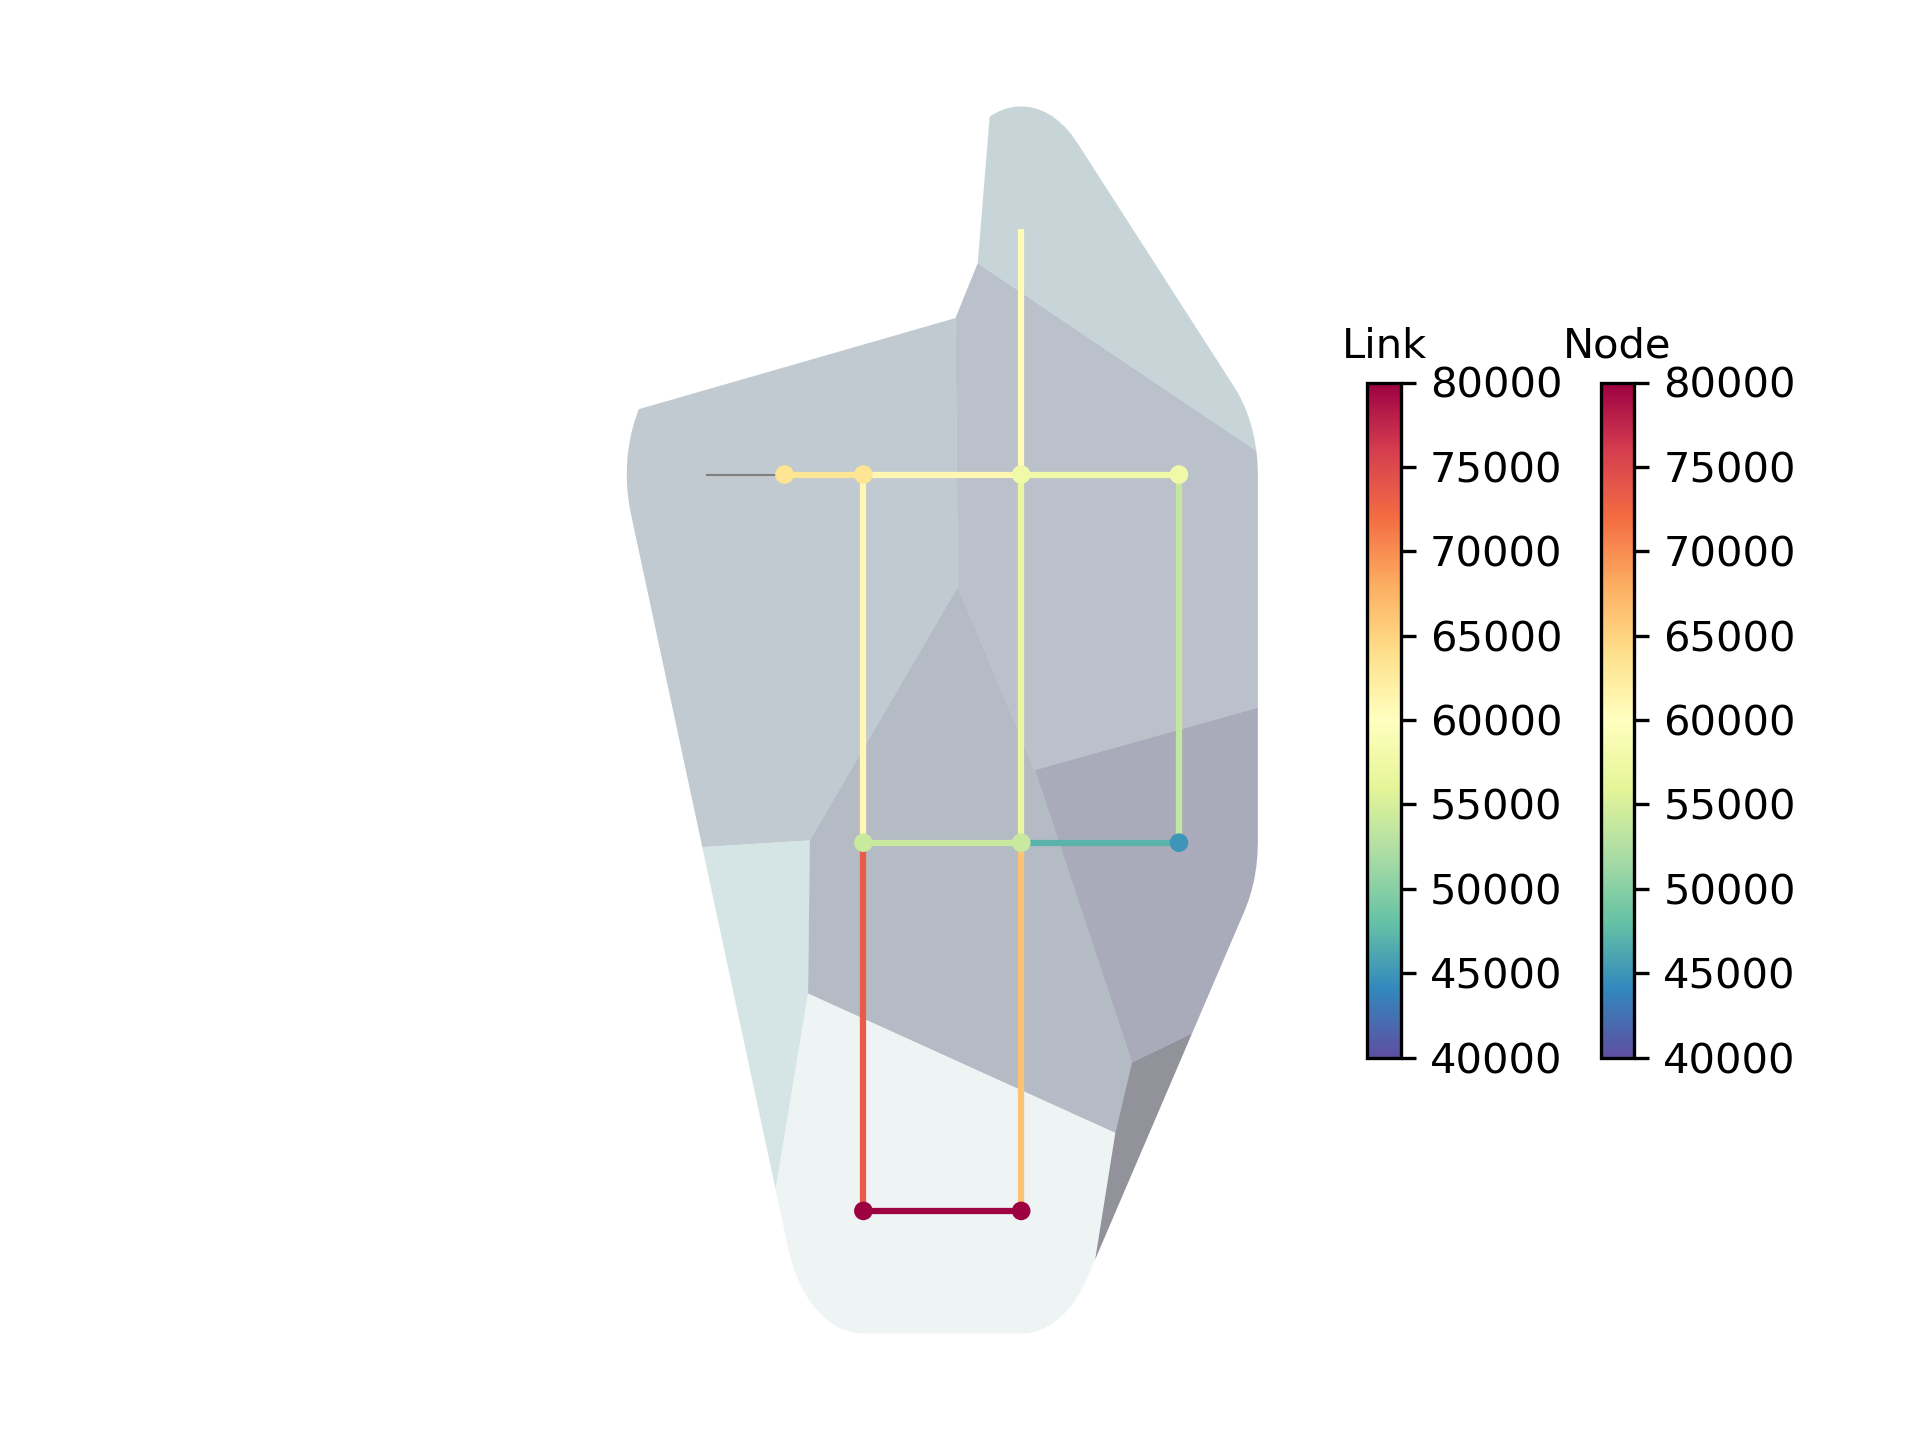
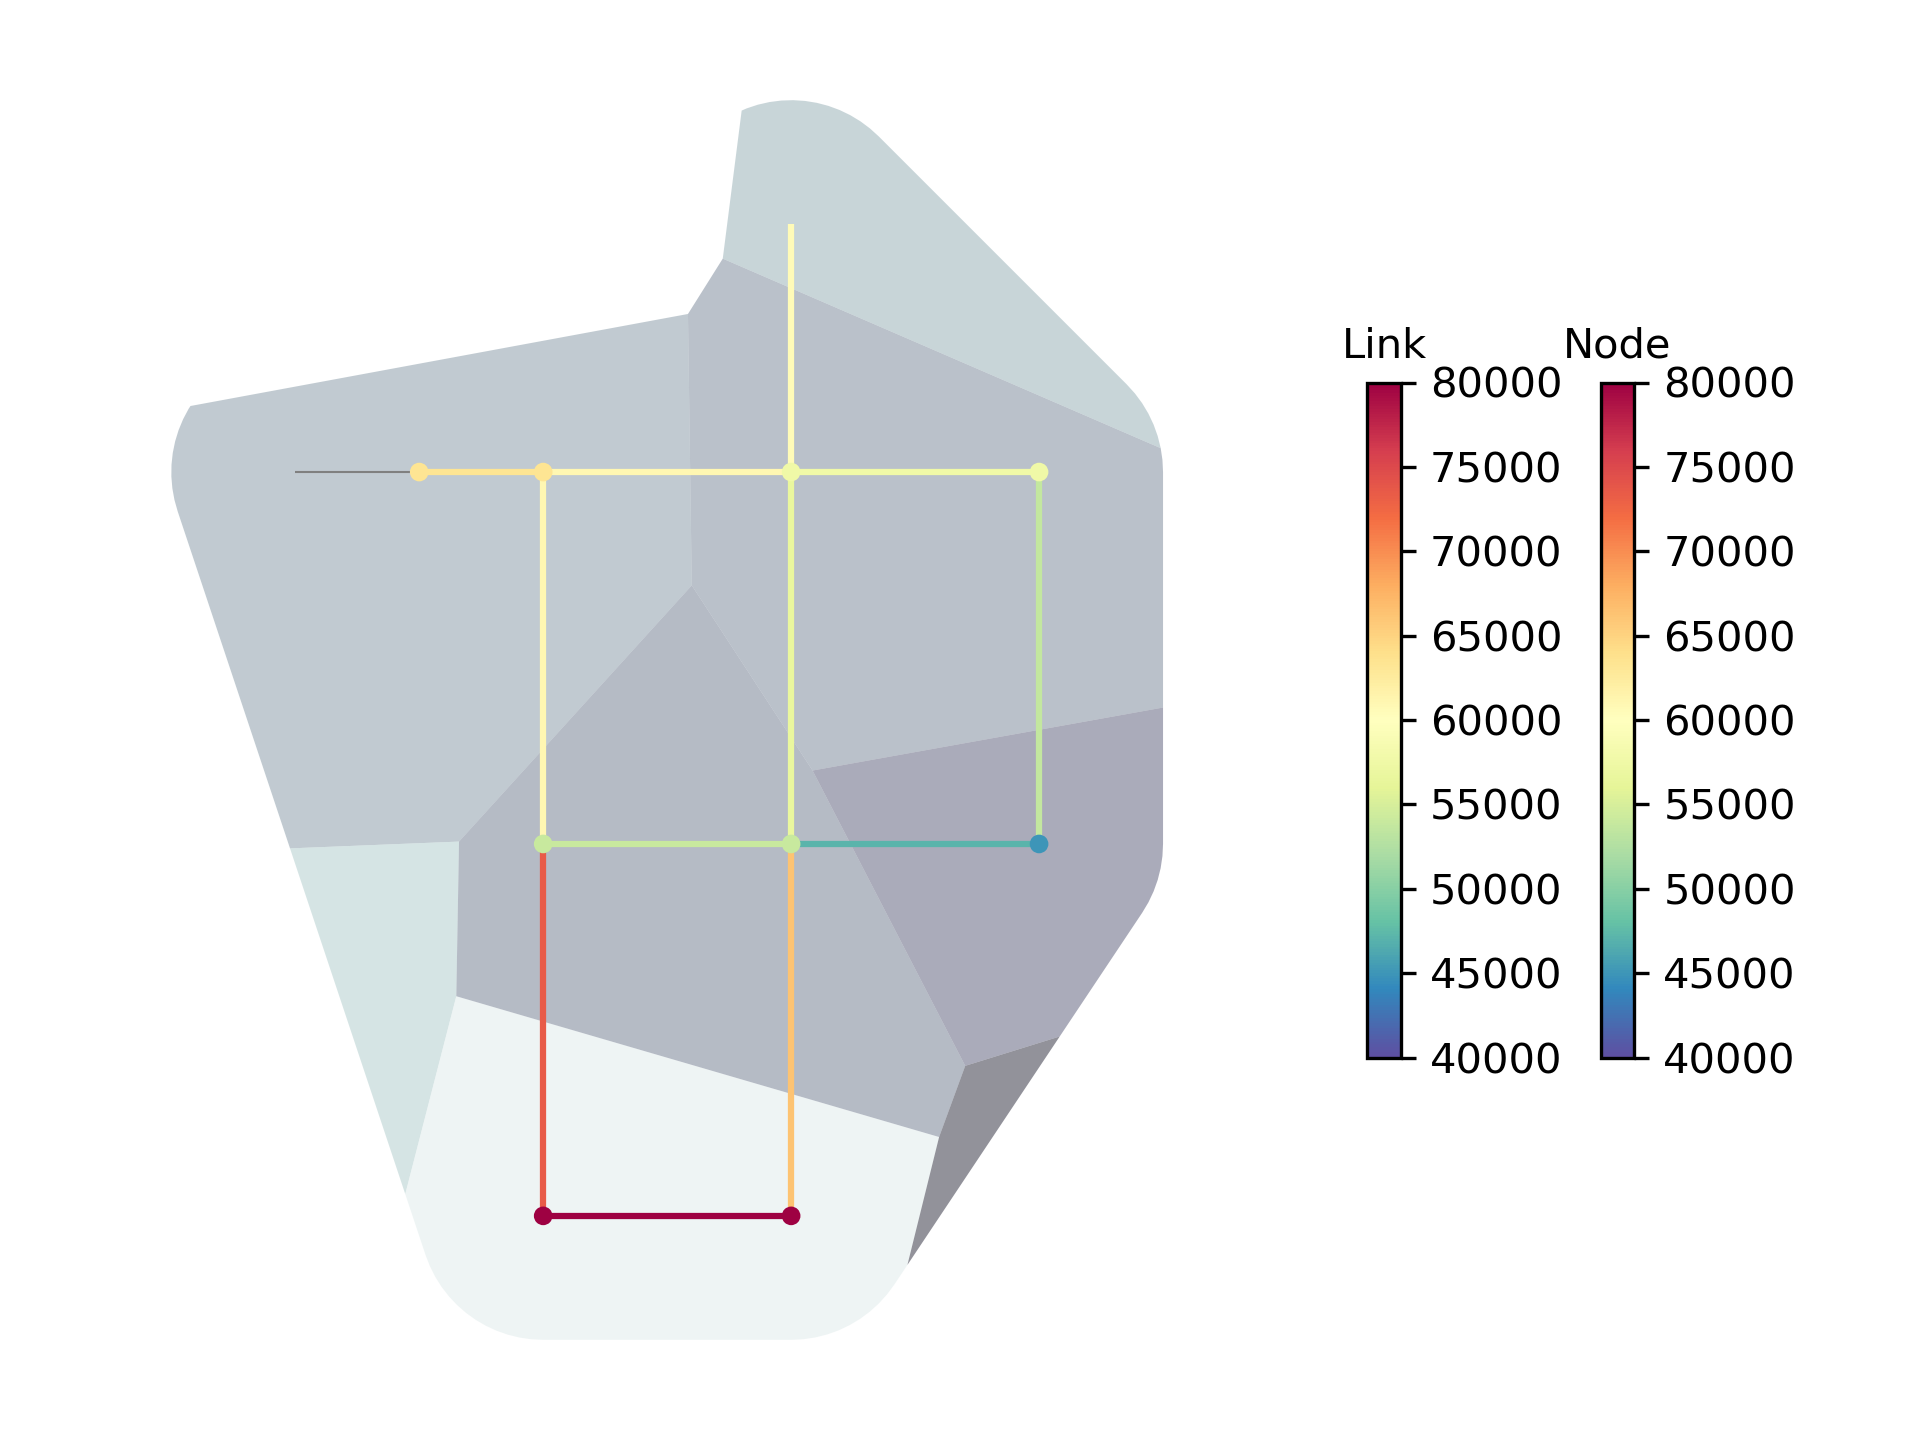
gis updates

Changed region(s): [[0.0625, 0.0625, 0.6562, 0.875]]

diff --git a/wntr/tests/data_for_testing/Net1_gis_data.py b/wntr/tests/data_for_testing/Net1_gis_data.py
@@ -1,0 +1,121 @@
+"""
+The GIS data created using this file is stored in examples/data. The data has 
+no CRS, the units are based on Net1. However, when the geojson files are read 
+back into a geopandas DataFrame, the CRS is assumed to be epsg:4326
+https://epsg.io/4326, World Geodetic System in degrees.
+Because this is a geographic CRS, geometry.length prints a warning that it is
+likely incorrect.  
+"""
+import numpy as np
+import pandas as pd
+import matplotlib.pylab as plt
+from scipy.spatial import Voronoi
+import geopandas as gpd
+import shapely
+import shapely.geometry
+import shapely.ops
+
+import wntr
+
+plt.close('all')
+np.random.seed(321)
+
+wn = wntr.network.WaterNetworkModel('../../../examples/networks/Net1.inp')
+
+# Create a convex hull to clip data
+coords = wn.query_node_attribute('coordinates')
+coord_vals = pd.DataFrame.from_records(coords.values, columns=['x', 'y'])
+hull_geom = shapely.geometry.MultiPoint(coords.values).convex_hull
+hull_geom = hull_geom.buffer(10)
+hull_data = gpd.GeoDataFrame(pd.DataFrame([{'geometry': hull_geom}]), crs=None)
+
+### Generate polygons - demographic data
+points = np.random.random((9, 2))*100
+corners = np.array([[0,0],[0,100],[100,100],[100,0]])
+points = np.append(points, corners, axis=0)
+vor = Voronoi(points)
+
+line_data = []
+for line in vor.ridge_vertices:
+    if -1 not in line:
+        line_data.append(shapely.geometry.LineString(vor.vertices[line]))
+poly_data = []
+for poly in shapely.ops.polygonize(line_data):
+    poly_data.append({'mean_income': np.round(np.random.normal(67000,30000),0),
+                      'mean_age': np.round(np.random.normal(40,10), 0),
+                      'population': np.round(np.random.normal(5000,1500), 0),
+                      'geometry': poly})   
+    
+demographic_data = gpd.GeoDataFrame(pd.DataFrame(poly_data), crs=None)
+demographic_data = gpd.clip(demographic_data, hull_geom) 
+demographic_data.reset_index(drop=True, inplace=True)
+
+ax = demographic_data.plot(column='mean_income', alpha=0.5, cmap='bone', vmin=0, vmax=100000)
+wntr.graphics.plot_network(wn, ax=ax)
+
+print(demographic_data.crs)
+demographic_data.length
+
+demographic_data.to_file('Net1_demographic_data.geojson', driver='GeoJSON')
+demographic_data2 = gpd.read_file('Net1_demographic_data.geojson')
+
+print(demographic_data2.crs)
+demographic_data2.length
+
+### Generate polygons - landslide hazard zones with probability of failure
+poly_data = []
+poly_data.append({'Pr': 0.5,  'geometry': shapely.geometry.Polygon([[27,23],[28,45],[25,65],[31,56],[32,35]]).buffer(2)})
+poly_data.append({'Pr': 0.75, 'geometry': shapely.geometry.Polygon([[42,2],[45,27],[35,85]]).buffer(2)})
+poly_data.append({'Pr': 0.9, 'geometry': shapely.geometry.Polygon([[60,44],[61,34],[58,36]]).buffer(2)})
+
+landslide_data = gpd.GeoDataFrame(pd.DataFrame(poly_data), crs=None)
+
+ax = landslide_data.plot(column='Pr', cmap='bone', vmin=0, vmax=1)
+wntr.graphics.plot_network(wn, ax=ax)
+
+landslide_data.crs = None
+landslide_data.to_file('Net1_landslide_data.geojson', driver='GeoJSON')
+
+
+### Generate lines - earthquake fault lines with probability of a mag 7 earthquake
+line_data = []
+line_data.append({'Pr': 0.5,  'geometry': shapely.geometry.LineString([[36,2],[44,44],[85,85]])})
+line_data.append({'Pr': 0.75, 'geometry': shapely.geometry.LineString([[42,2],[45,27],[38,56],[30,85]])})
+line_data.append({'Pr': 0.9,  'geometry': shapely.geometry.LineString([[40,2],[50,50],[60,85]])})
+line_data.append({'Pr': 0.25, 'geometry': shapely.geometry.LineString([[30,2],[35,30],[40,50],[60,80]])})
+
+earthquake_data = gpd.GeoDataFrame(pd.DataFrame(line_data), crs=None)
+
+ax = earthquake_data.plot(column='Pr', cmap='bone', vmin=0, vmax=1)
+wntr.graphics.plot_network(wn, ax=ax)
+
+earthquake_data.crs = None
+earthquake_data.to_file('Net1_earthquake_data.geojson', driver='GeoJSON')
+
+### Generate points - hydrant locations with fire flow requirements in GPM
+point_data = []
+point_data.append({'demand': 5000, 'geometry': shapely.geometry.Point([48.2,37.2])})        
+point_data.append({'demand': 1500, 'geometry': shapely.geometry.Point([71.8,68.3])})
+point_data.append({'demand': 8000, 'geometry': shapely.geometry.Point([51.2,71.1])})  
+
+hydrant_locations = gpd.GeoDataFrame(pd.DataFrame(point_data), crs=None)
+
+ax = hydrant_locations.plot(column='demand', cmap='bone', vmin=0, vmax=10000)
+wntr.graphics.plot_network(wn, ax=ax)
+
+hydrant_locations.crs = None
+hydrant_locations.to_file('Net1_hydrant_data.geojson', driver='GeoJSON')
+
+### Generate points - valve locations
+point_data = []
+point_data.append({'geometry': shapely.geometry.Point([56.5, 41.5])})        
+point_data.append({'geometry': shapely.geometry.Point([32.1, 67.6])})
+point_data.append({'geometry': shapely.geometry.Point([52.7, 86.3])})  
+
+valve_locations = gpd.GeoDataFrame(pd.DataFrame(point_data), crs=None)
+
+ax = valve_locations.plot()
+wntr.graphics.plot_network(wn, ax=ax)
+
+valve_locations.crs = None
+valve_locations.to_file('Net1_valve_data.geojson', driver='GeoJSON')

diff --git a/wntr/gis/network.py b/wntr/gis/network.py
@@ -22,7 +22,6 @@ except ModuleNotFoundError:
     gpd = None
     has_geopandas = False
 
-
 def wn_to_gis(wn, crs=None, pumps_as_points=False, valves_as_points=False):
     """
     Convert a WaterNetworkModel into GeoDataFrames
@@ -306,6 +305,7 @@ class WaterNetworkGIS:
             attributes = list(wn.add_junction.__code__.co_varnames)
             valid_attributes = set(self.junctions.columns) & set(attributes)
             valid_attributes.update(['coordinates'])
+            valid_attributes = list(valid_attributes)
             # TODO: we could also set additional attributes....
             # additional_attributes = set(self.junctions.columns) - set(attributes)
             
@@ -320,6 +320,7 @@ class WaterNetworkGIS:
             attributes = list(wn.add_tank.__code__.co_varnames)
             valid_attributes = set(self.tanks.columns) & set(attributes)
             valid_attributes.update(['coordinates'])
+            valid_attributes = list(valid_attributes)
             
             for name, element in self.tanks.iterrows():
                 element['coordinates'] = (element.geometry.xy[0][0],
@@ -332,6 +333,7 @@ class WaterNetworkGIS:
             attributes = list(wn.add_reservoir.__code__.co_varnames)
             valid_attributes = set(self.reservoirs.columns) & set(attributes)
             valid_attributes.update(['coordinates'])
+            valid_attributes = list(valid_attributes)
             
             for name, element in self.reservoirs.iterrows():
                 element['coordinates'] = (element.geometry.xy[0][0],
@@ -344,6 +346,7 @@ class WaterNetworkGIS:
             assert 'end_node_name' in self.pipes.columns
             attributes = list(wn.add_pipe.__code__.co_varnames)
             valid_attributes = set(self.pipes.columns) & set(attributes)
+            valid_attributes = list(valid_attributes)
     
             for name, element in self.pipes.iterrows():
                 # TODO save vertices to the water network       
@@ -355,6 +358,7 @@ class WaterNetworkGIS:
             assert 'end_node_name' in self.pumps.columns
             attributes = list(wn.add_pump.__code__.co_varnames)
             valid_attributes = set(self.pumps.columns) & set(attributes)
+            valid_attributes = list(valid_attributes)
             
             for name, element in self.pumps.iterrows():
                 wn.add_pump(name, **element[valid_attributes].to_dict())
@@ -365,6 +369,7 @@ class WaterNetworkGIS:
             assert 'end_node_name' in self.valves.columns
             attributes = list(wn.add_valve.__code__.co_varnames)
             valid_attributes = set(self.valves.columns) & set(attributes)
+            valid_attributes = list(valid_attributes)
             
             for name, element in self.valves.iterrows():
                 wn.add_valve(name, **element[valid_attributes].to_dict())

diff --git a/documentation/gis.rst b/documentation/gis.rst
@@ -237,6 +237,7 @@ The data, water network model, and snapped points can be plotted as follows.
 .. doctest::
     :hide:
     
+    >>> bounds = ax.axis('equal')
     >>> plt.tight_layout()
     >>> plt.savefig('snap_points.png', dpi=300)
 
@@ -293,6 +294,7 @@ The data, water network model, and valve layer can be plotted as follows.
 .. doctest::
     :hide:
     
+    >>> bounds = ax.axis('equal')
     >>> plt.tight_layout()
     >>> plt.savefig('snap_lines.png', dpi=300)
 
@@ -377,6 +379,7 @@ Pipes are colored with their max probability.
 .. doctest::
     :hide:
     
+    >>> bounds = ax.axis('equal')
     >>> plt.tight_layout()
     >>> plt.savefig('intersect_earthquake.png', dpi=300)
 	
@@ -454,6 +457,7 @@ Pipes are colored with the weighted mean probability.
 .. doctest::
     :hide:
     
+    >>> bounds = ax.axis('equal')
     >>> plt.tight_layout()
     >>> plt.savefig('intersect_landslide.png', dpi=300)
 	
@@ -549,6 +553,7 @@ Junctions and pipes are colored with their average value (weighted average for p
 .. doctest::
     :hide:
     
+    >>> bounds = ax.axis('equal')
     >>> plt.tight_layout()
     >>> plt.savefig('intersect_demographics.png', dpi=300)
 

diff --git a/documentation/apidoc/wntr.network.io.rst b/documentation/apidoc/wntr.network.io.rst
@@ -1,0 +1,8 @@
+wntr.network.io module
+===================================
+
+.. automodule:: wntr.network.io
+    :members:
+    :inherited-members:
+    :no-undoc-members:
+    :show-inheritance:

diff --git a/documentation/apidoc/wntr.network.rst b/documentation/apidoc/wntr.network.rst
@@ -14,6 +14,7 @@ Submodules
    wntr.network.base
    wntr.network.controls
    wntr.network.elements
+   wntr.network.io
    wntr.network.model
    wntr.network.layer
    wntr.network.options
